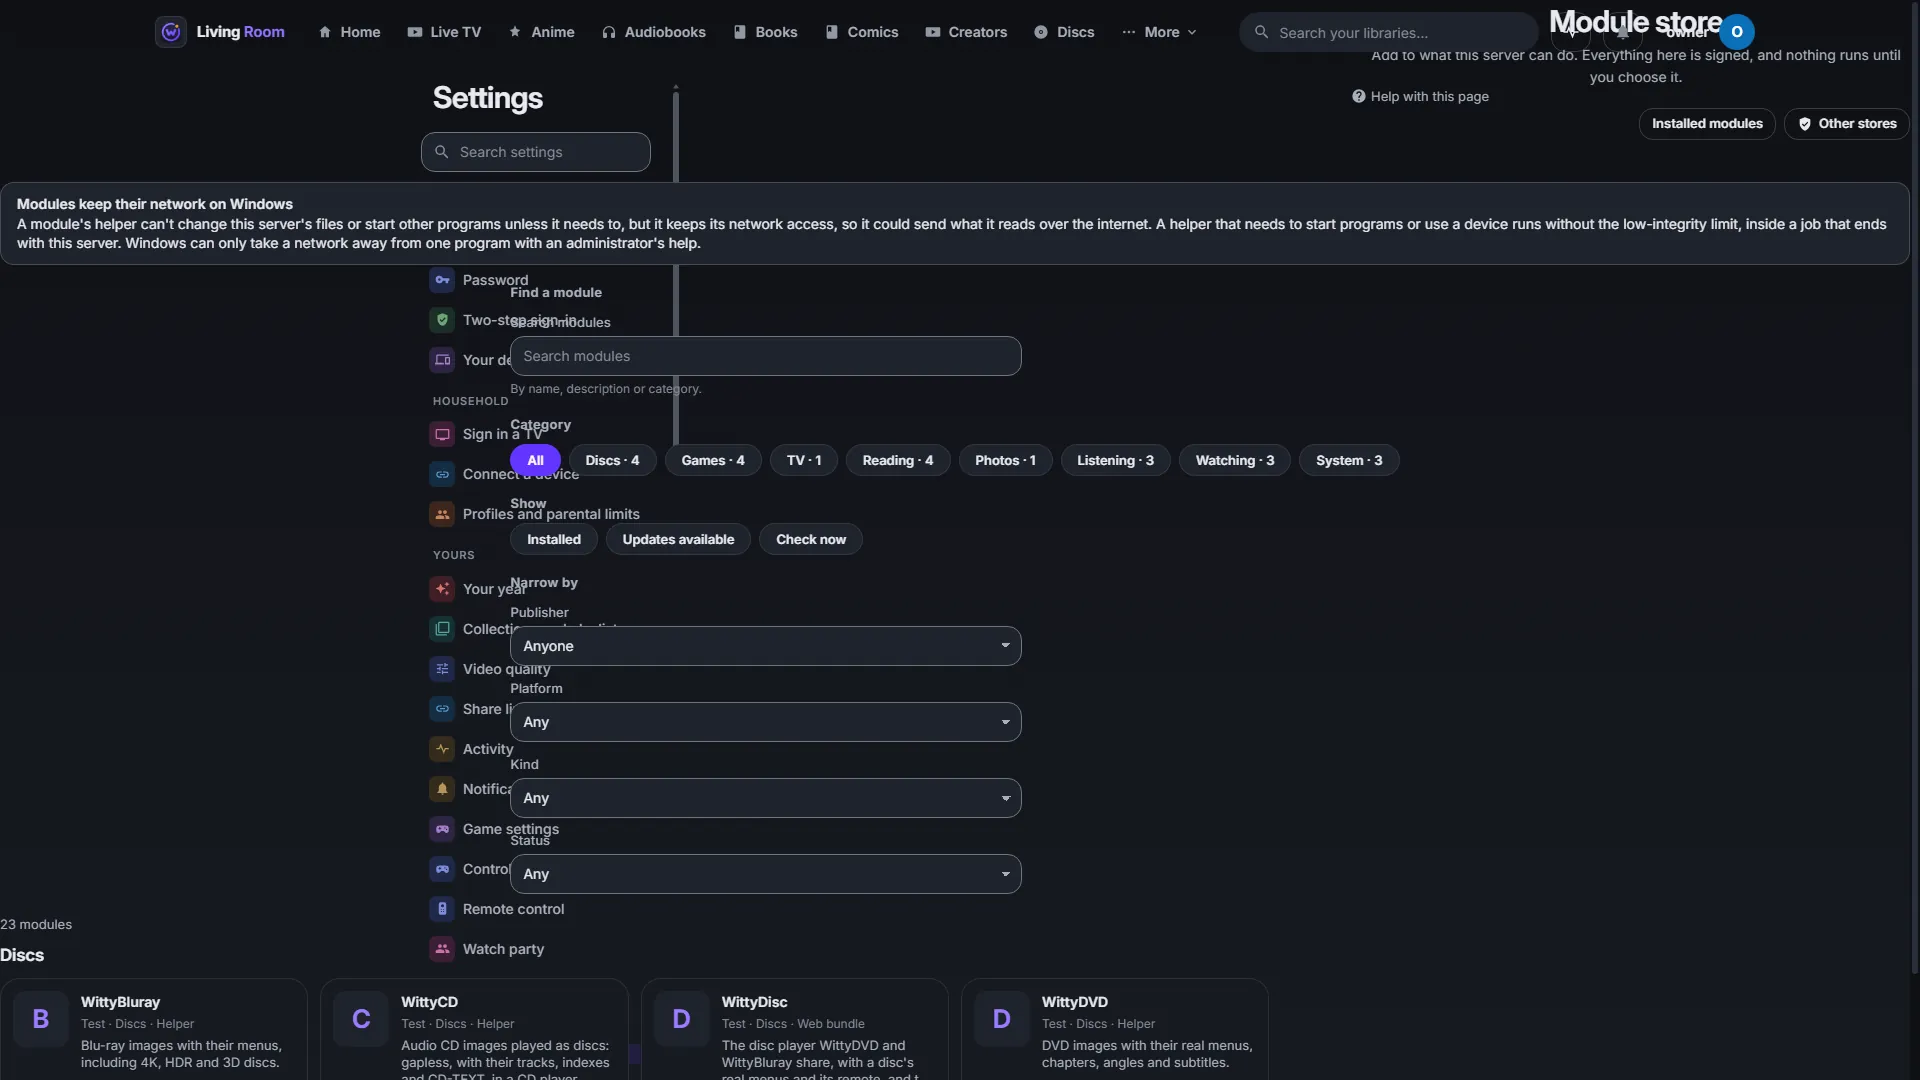
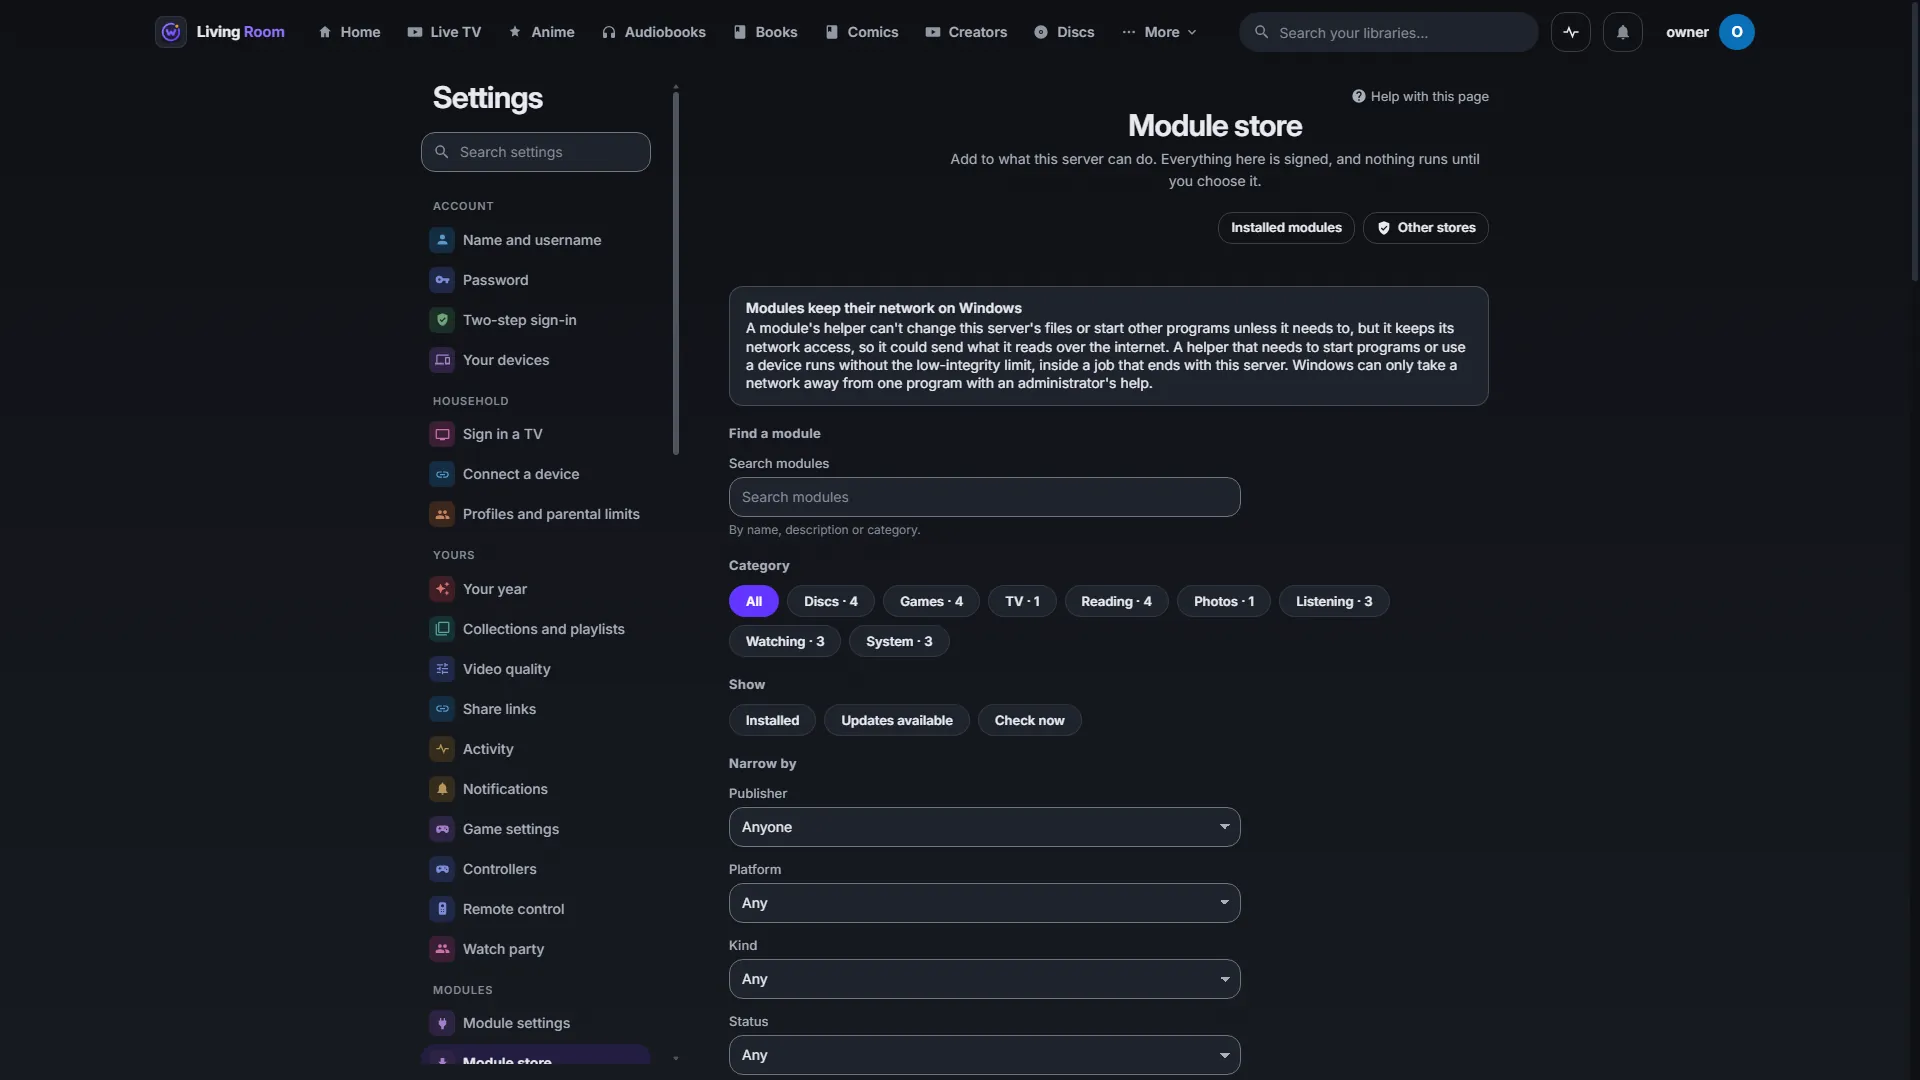
Docs pictures: the store with #695, setup's Customize dialogs whole; picture checks
The module store, a store module's page and Other stores showed 0.8.4's store bug (the screen-time
page's classes over the store, the settings menu drawn through it); retaken from a build with #695.
The four setup Customize pictures showed the page through the dialog: not the app, but card() taking
them with captureBeyondViewport, which draws a fixed dialog see-through. It now uses that mode only
for an element that runs past the window. photos-viewer leaves the Photos guide: the photo doesn't
load in the viewer, and the top bar draws over it (a bug of its own, not fixed here).

shots-lib.mjs: with checks on (shots.mjs and shots-setup.mjs; the test scripts leave it off), every
picture waits out finite animations and is refused if it shows a "Finish setting up" notice, the
crash notice, a spinner, an error page or section, a layer over most of the page with the page
showing through, the page showing through a dialog, words drawn over other words, a dialog still
fading in, a picture that didn't load, or a page that can't scroll. A picture meant to show one
names it in allow. The logs page is taken once per tab instead of twice.

diff --git a/docs/images/CREDITS.md b/docs/images/CREDITS.md
@@ -78,7 +78,6 @@ Licences were read from each work's source on the day it was fetched. This is a 
 | `phone-settings.webp` | Settings on a phone, as a made-up profile. No media is pictured. |
 | `photos.webp` | The timeline, with pictures from [Wikimedia Commons](https://commons.wikimedia.org/), each credited in [the list](CREDITS.md). |
 | `photos-map.webp` | The map, with pictures from [Wikimedia Commons](https://commons.wikimedia.org/), each credited in [the list](CREDITS.md). |
-| `photos-viewer.webp` | The viewer, with pictures from [Wikimedia Commons](https://commons.wikimedia.org/), each credited in [the list](CREDITS.md). |
 | `player.webp` | The player. [Sintel](https://durian.blender.org/), Blender Foundation, [CC BY 3.0](https://creativecommons.org/licenses/by/3.0/). |
 | `player-quality.webp` | The player's quality menu. [Sintel](https://durian.blender.org/), Blender Foundation, [CC BY 3.0](https://creativecommons.org/licenses/by/3.0/). |
 | `podcasts.webp` | Podcasts under open licences, credited in [the list](CREDITS.md). |

diff --git a/docs/PHOTOS.md b/docs/PHOTOS.md
@@ -48,9 +48,6 @@ Places come from EXIF GPS tags, and from the location tag of clips. Phones and s
 
 Press a picture to open it. **Details** shows its date, file, camera, exposure and place, with **Download the original**. **Slideshow** runs at 2, 3, 5, 8 or 15 seconds a picture. A clip plays to its end before the slideshow moves on.
 
-![One photo filling the screen](images/photos-viewer.webp)
-*The viewer, with pictures from [Wikimedia Commons](https://commons.wikimedia.org/), each credited in [the list](images/CREDITS.md).*
-
 | Key | What it does |
 |---|---|
 | ← → | Previous or next picture. When zoomed in, these move the picture |
